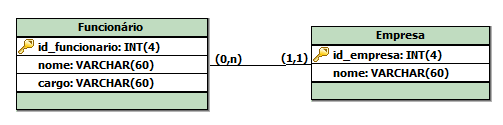
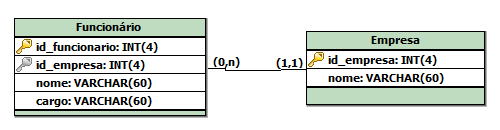
Adição dos sete passos e correção na exibição das imagens

Changed region(s): [[0.03, 0.12, 0.99, 0.912]]

diff --git a/4_semestre/banco_de_dados/README.md b/4_semestre/banco_de_dados/README.md
@@ -21,11 +21,20 @@ Há outros conceitos que também tem grande importância na área de banco de da
 * Esquemas (Estrutura)
     * Definição dos tipos de dados que estão armazenados ou estarão armazenados no banco de dados;
     * É difícil apresentar mudanças.
+Exemplo de esquema.
+![Tabela clientes](imgs/esquema.PNG)
+
+Veja que a tabela clientes representa a estrutura e os tipos de dados que serão armazenados.
 
 * Instâncias (Estado)
     * São os dados e informações de um banco de dados;
     * Conjunto de informações de um banco de dados em um dado momento;
     * Sempre sofre alterações.
+
+Exemplo de instância
+![Instâncias](imgs/instancia.PNG)
+
+Cada registro na tabela acima, representa uma instância de cliente.
 
 * Instância X Esquema - (Exemplos)
     * Esquema: FUNCIONARIO(nome, salario)
@@ -55,7 +64,7 @@ Esta foi uma das primeiras formas encontradas para realizar o armazenamento das 
 
 Veja que este tipo de sistema criava sistemas isolados dentro de uma mesma empresa, ou seja, havia sistemas de áreas relacionadas que trabalhavam de forma separada, sem nenhuma ligação, veja a representação abaixo.
 
-![Sistemas isolados](imgs/sistemas-isolados.png).
+![Sistemas isolados](imgs/sistemas-isolados.PNG).
 
 Perceba que as áreas fazem a manipulação do mesmo dado (Produto), porém sem haver comunicação entre elas, com este tipo de sistema gera-se redundância de dados. 
 
@@ -104,7 +113,7 @@ Veja que, todas as áreas que fazem o uso do Produto estarão acessando a mesma 
 
 ## Sistema gerenciador de banco de dados (SGBD)
 
-Este é um sistema de incorpora as funções de definição, recuperação e alteração de dados em um banco de dados.
+Este é um sistema de incorpora as funções de definição, recuperação e alteração de dados em um banco de dados. Pode ser definido também como: `Sistema constituído por um conjunto de dados associados a um conjunto de programas para acesso a esses dados.`. Koth & Silberschatz.
 
 Os SGBDs trazem independência entre os dados e os programas que farão a leitura desses. Isso porque todo o controle e formas de armazenamento passarão a ser controlados pelo SGBD, isso evita problemas citados no tópico de sistemas de arquivos onde os programas e dados eram fortemente acoplado, isso porque todos os dados eram estruturados seguindo a lógica definida pelo programa, com isso, quando outro programa fosse fazer as leituras, era necessário a adequação da lógica de leitura e aquisição para a estrutura dos dados.
 
@@ -150,17 +159,17 @@ Um sistema de banco de dados é composto por:
 
 A estrutura descrita acima, pode ser visualizada na imagem abaixo:
 
-![Sistema de banco de dados](imgs/sistema-db.png)
+![Sistema de banco de dados](imgs/sistema-db.PNG)
 
 ## Modelos de dados
 
 O modelo de dados (BD) é basicamente um conjunto de conceitos utilizados para descrever um banco de dados.
 
-Pode ser definido também como, `Descrição formal da estrutura de um banco de dados`. (Heuser, 2004.)
+Pode ser definido também como, `Descrição formal da estrutura de um banco de dados`. (Heuser, 2004).
 
-### Modelo conceitual (MER)
+### Modelo entidade-relacionamento (Conceitual)
 
-Modelo de dados abstratos, que descreve a estrutura de um banco de dados, e essa independe do Sistema gerenciador de banco de dados (SGBD).
+Modelo de dados abstratos, que descreve a estrutura de um banco de dados, e essa independe do sistema gerenciador de banco de dados (SGBD).
 
 ![Modelo conceitual](modelos/conceitual_1.PNG)
 
@@ -188,6 +197,7 @@ Dentro deste modelo há alguns conceitos que devem ficar bastante claros, para q
         * No caso da entidade fraca, o atributo chave é nomeado `chave parcial`. Quando houver chave parcial, será necessário haver uma chave primária, de alguma entidade forte.
     * Restrição de unicidade
         * Proíbe que duas entidades, em um mesmo conjunto entidade, tenham o mesmo atributo chave (Este é um conceito aplicado com a utilização do `atributo chave`.
+
 * Relacionamentos
     * Os relacionamentos representam as associações existentes entre as entidades.
     * Grau
@@ -196,12 +206,27 @@ Dentro deste modelo há alguns conceitos que devem ficar bastante claros, para q
             * Ternário (Grau três);
             * n-ário (Grau n).
     * Atributos
-        * Os atributos nos relacionamentos são usados para descrever uma relação (Associação) entre as entidades envolvidas.
-* Cardinalidade
+        * Os atributos nos relacionamentos são usados para descrever uma relação (Associação) entre as entidades envolvidas.   
+
+* Auto-relacionamento:
+	* Normalmente um relacionamento associa entidades diferentes. Porém há casos especiais em que o relacionamento entra na mesma entidade, nestas situações surge o conceito de PAPEL que identificará o relacionamento.
+
+* Cardinalidade (Mínina, Máxima)
     * A cardinalidade indica a quantidade de instâncias de relacionamento nas quais uma instância de entidade pode participar.
-        * 1:1 (um para um);
-        * 1:N (um para muitos);
-        * M:N (muitos para muitos)
+    * Cardinalidade máxima: É o número máximo de ocorrências de entidade associadas à uma ocorrência da entidade em questão através de relacionamento.
+    * Apenas duas cardinalidades máximas são de nosso interesse, as:
+        * de valor 1; 
+        * de valor n.
+    * Utilizada para classificar relacionamentos binários
+        * Classificamos os relacionamentos binários em:
+            * 1:1 (um para um);
+            * 1:N (um para muitos);
+            * M:N (muitos para muitos).    
+	* Cardinalidade Mínima
+		* Número mínimo de ocorrências de entidades que são associadas a uma determinada ocorrência de uma entidade através de um relacionamento.
+		Consideram-se apenas duas cardinalidades:
+            * Cardinalidade Mínima 1 = associação obrigatória;
+            * Cardinalidade Mínima 0 = associação opcional.
 
 #### Atributo chave
 
@@ -233,12 +258,28 @@ Esta é uma forma que permite expressar estruturas de hierarquia e especializaç
     * É uma abstração que permite a construção de objetos a partir de seus componentes. Veja que aqui o processo feito é a junção de dois objetos já relacionados, e partindo desta junção um outro objeto é criado.
 
 * Entidade associativa
+    * Um relacionamento é uma associação entre tabelas
+    * Na modelagem entidade-relacionamento não é permitido
+        - Associar uma entidade com um relacionamento;
+        - Associar dois relacionamentos entre si. 
 
-### Modelo lógico
+Para entender melhor a entidade associativa, veja a figura abaixo:
+![Entidade associativa](modelos/associativa.PNG)
+
+* Modelo com Aspecto Temporal
+	* Um banco de dados é dito temporal quando é capaz de armazenar dados passados, presentes e futuros sobre os objetos de interesse para um negócio.
+
+### Modelo lógico (Relacional)
 
 Modelo de dados que representa a estrutura de dados de um banco de dados conforme vista pelo usuário do SGBD. Este é um modelo que depende do SGBD que está sendo utilizado
 
 ![Modelo lógico](modelos/logico_1.PNG)
+
+Um modelo lógico de um banco de dados relacional deve definir quais as tabelas que o banco de dados contém e, para cada tabela, quais os nomes das colunas. 
+
+Funcionário(id_funcionario, nome, cargo, id_empresa) `id_empresa referencia Empresa`
+
+Empresa(id_empresa, nome)
 
 ### Modelo físico
 
@@ -246,13 +287,102 @@ Este é o modelo que representa análise e aplicação do modelo lógico.
 
 ![Modelo físico](modelos/fisico.PNG)
 
-### Modelo relacional
+### Transformação do Modelo entidade-relacionamento (Nivel Conceitual) para o Modelo Relacional (Modelo Lógico)
 
-### Mapeamento MER -> Relacional
+A transformação do modelo entidade-relacionamento para o modelo lógico, representa a transição entre passos de um projeto de banco de dados.
 
-#### Regras de integridade
+Assim, é importante garantir que as informações contidas no modelo entidade-relacionamento sejam representadas corretamente no modelo relacional (Lógico). Para que haja esta garantia, existem algumas diretrizes que devem ser seguidas.
 
-## Dependências funcionais
+Veja que, para um único modelo conceitual, existem `N` modelos relacionais, isso porque esta transformação depende da abstração do projeto e dos conceitos envolvidos. Muitas ferramentas já automatizam esta etapa, porém é importante saber como realizá-la, pois qualquer definição equivocada do modelo relacional, afeta a estrutura de todo o projeto.
+
+#### Os sete passos
+
+De acordo com Elmasri & Navathe, para realizar o mapeamento do modelo conceitual para o relacional, são necessários sete passos:
+
+* 1° - Mapear conjuntos de entidades "Fortes";
+    * Para cada conjuntos de entidade forte `E` no modelo conceitual, cria-se uma tabela `R` que inclui todos os atributos de `E`;
+    * O atributo identificador de `E` passa a ser a chave primária de `R`;
+    * Caso exista atributos compostos, inclua todos os atributos elementares que compõem o atributo composto.
+
+* 2° - Mapear conjuntos de entidades "Fracas";
+    * Para cada entidade fraca `F` no modelo conceitual que tenha como entidade proprietária (Forte) `E`:
+        * Criar uma tabela `R` e incluir todos os atributos de `F`;
+        * Incluir o atributo da chave primária da tabela proprietária `E`.
+    * Lembre-se, a chave primária de `R` é a compinação da chave primária de `E` e da chave primária de `F`.
+
+* 3° - Mapear conjuntos de relacionamento binário 1:1;
+    * Identificar as tabelas das entidades participantes do relacionamento `R`;
+    * Escolher uma das tabelas e incluir como chave entrangeira, a chave primária da outra tabela;
+    * Incluir todos os atributos do `relacionamento` na relação escolhida para receber a chave.
+
+* 4° - Mapear conjuntos de relacionamento binário 1:N;
+    * Identificar a tabela `S` que representa a entidade do lado com cardinalidade n;
+    * Incluir como chave estrangeira em `S` a chave primária da tabela que representa a entidade do lado com cardinalidade 1;
+    * Incluir os atributos do relacionamento em `S`.
+
+* 5° - Mapear conjuntos de relacionamentos binário M:N;
+    * Para cada relacionamento `R` de M:N:
+        * Criar uma nova tabela para representar `R`;
+        * Incluir como chave estrangeira as chaves primárias das tabelas que participam em `R`. Estas chaves combinadas formarão a chave primária da nova tabela (`R`);
+        * Incluir também eventuais atributos de `R` (Atributos do relacionamento que liga as entidades);
+
+* 6° - Mapear conjuntos de relacionamentos N > 2 (Não binários);
+    * Para cada relacionamento `R` (n > 2):
+        * Criar uma nova tabela `S` para representar `R`;
+        * Incluir como chaves estrangeiras as chaves primárias das tabelas que representam as entidades participantes;
+        * Incluir eventuais atributos de `R`;
+        * A chave primária de `S` é normalmente a combinação das chaves estrangeiras.
+
+* 7° - Mapear atributos multivalorados.
+    * Para cada atributo multivalorado `A`, criar uma nova tabela `R`, incluindo um atributo correspondendo a `A` mais a chave primária `K` da tabela que tem `A` como atributo;
+    * A chave primária de `R` é a combinação de `A` e `K`.
+
+Porém além dos casos descritos acima, o modelo pode conter generalizações e especializações, assim, faz-se necessário a utilização de um passo a mais
+
+Para casos em que há generalização/especialização, há três alternativas para o mapeamento:
+
+* 1° - Tabela única para entidade genérica e suas especializações;
+    * Neste caso cria-se uma coluna para identificar o tipo da entidade, e todos os atributos de cada tipo ficarão na mesma tabela
+
+Exemplo:
+![Alternativa 1](imgs/alternativa_1.PNG)
+
+* 2° - Tabela para a entidade genérica e as entidades especializadas;
+    * Nesta alternativa cria-se tabelas para cada uma das especializações, e essas são ligadas com a tabela especializada/generalizada utilizando a chave primária da mesma;
+
+Exemplo:
+![Alternativa 2](imgs/alternativa_2.PNG)
+
+* 3° - Tabelas apenas para as entidades especializadas.
+    * Por fim, nesta alternativa, cria-se tabelas apenas para as especializações
+
+Exemplo
+![Alternativa 3](imgs/alternativa_3.PNG)
+
+OBS: Esta alternativa não se aplica para especializações parciais
+
+Para lembrar:
+* Generalização/Especialização total: Toda instância da super-classe precisa estar associada a uma instância correspondente de alguma sub-classe;
+* Generalização/Especialização parcial: Pode haver instância da super-clase sem uma instância correspondente em nenhuma sub-classe
+
+#### Regras de integridade/restrições do modelo relacional
+
+* Integridade de identidade (ou entidade)
+    * A chave primária não pode conter um valor nulo (*null*) e identifica exclusivamente cada linha de dados em uma tabela.
+ 
+* Integridade referencial
+    * Se uma determinada tabela `A` possui uma chave estrangeira, a qual é chave primária em outra tabela `B`, então ela deve ser:
+        * Igul a um valor de chave primária existente em `B`; ou
+        * ser nula (*null*)
+    
+    * Isso ocorre porque não pode existir na chave estrangeira, um valor que não exista na tabela na qual ela é chave primária.
+
+* Integridade de domínio
+    * O valor de um campo deve obedecer a uma definição de valores admitidos para coluna, como tamanho em caracteres, tipo de valores (Número, data, varchar, etc)
+
+As regras citadas acima são regras que representam a garantia de que as tabelas guardam informações compatíveis. Por isso são de extrema importância para a confiabilidade das informações contidas no banco de dados.
+
+OBS: Lembre-se *null* não é o valor zero e também não é um caracter de espaço, ou em branco, é simplesmente a não-existência de conteúdo neste campo.
 
 ## Formas normais
 
